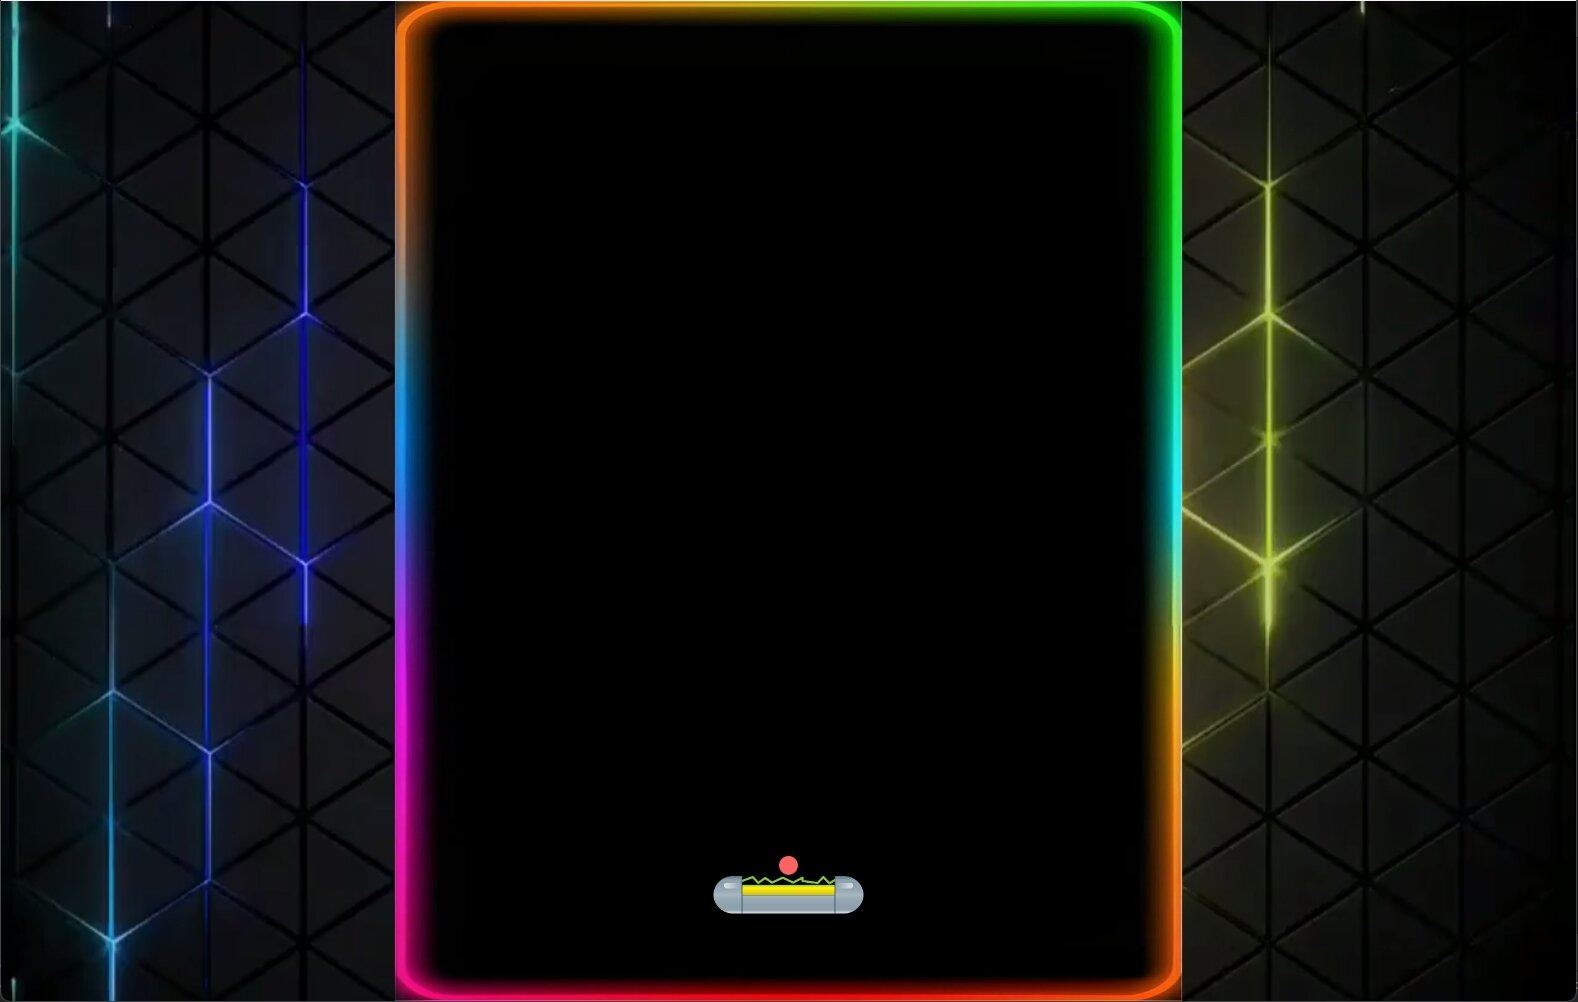
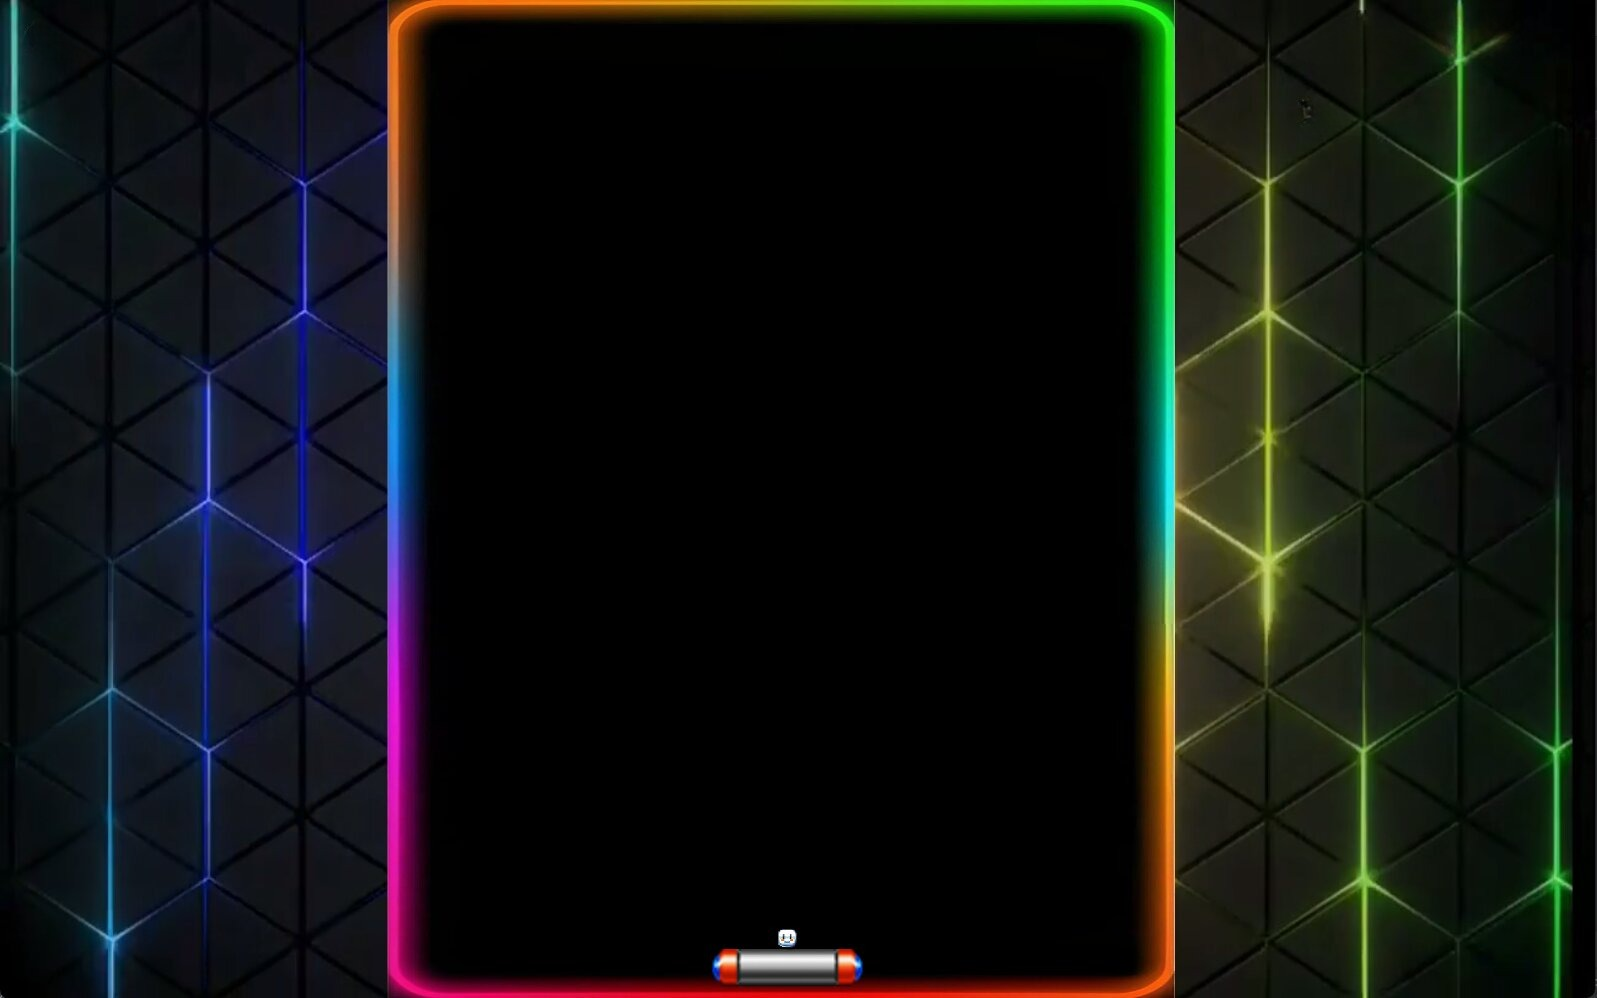
cập nhật ảnh

diff --git a/src/main/java/org/example/arkanoid/config/Constants.java b/src/main/java/org/example/arkanoid/config/Constants.java
@@ -1,7 +1,6 @@
 package org.example.arkanoid.config;
 
 import javafx.scene.image.Image;
-import java.util.Objects;
 
 public class Constants {
     /*
@@ -203,8 +202,8 @@ public class Constants {
     /*
     đường dẫn đến hình ảnh hiệu ứng đuôi của ball
      */
-    public static final String PATH_TO_TRAIL_1 = "/Images/ball/trail_effect/trail_effect1.png";
-    public static final String PATH_TO_TRAIL_2 = "/Images/ball/trail_effect/trail_effect2.png";
+    public static final String PATH_TO_TRAIL_1 = "/Images/trail/trail_effect1.png";
+    public static final String PATH_TO_TRAIL_2 = "/Images/trail/trail_effect2.png";
 
     public final static String PATH_TO_CURSOR = "/Images/background/cursor1.png";
     public final static String PATH_TO_HOVER_CURSOR = "/Images/background/hover_cursor.png";

diff --git a/src/main/java/org/example/arkanoid/object/Ball.java b/src/main/java/org/example/arkanoid/object/Ball.java
@@ -169,7 +169,6 @@ public class Ball extends MoveAbleObject {
                 return; // Không vẽ bóng
             }
         }
-        // Vẽ bóng bình thường
         draw(gc);
     }
     // --- KẾT THÚC THÊM MỚI ---
